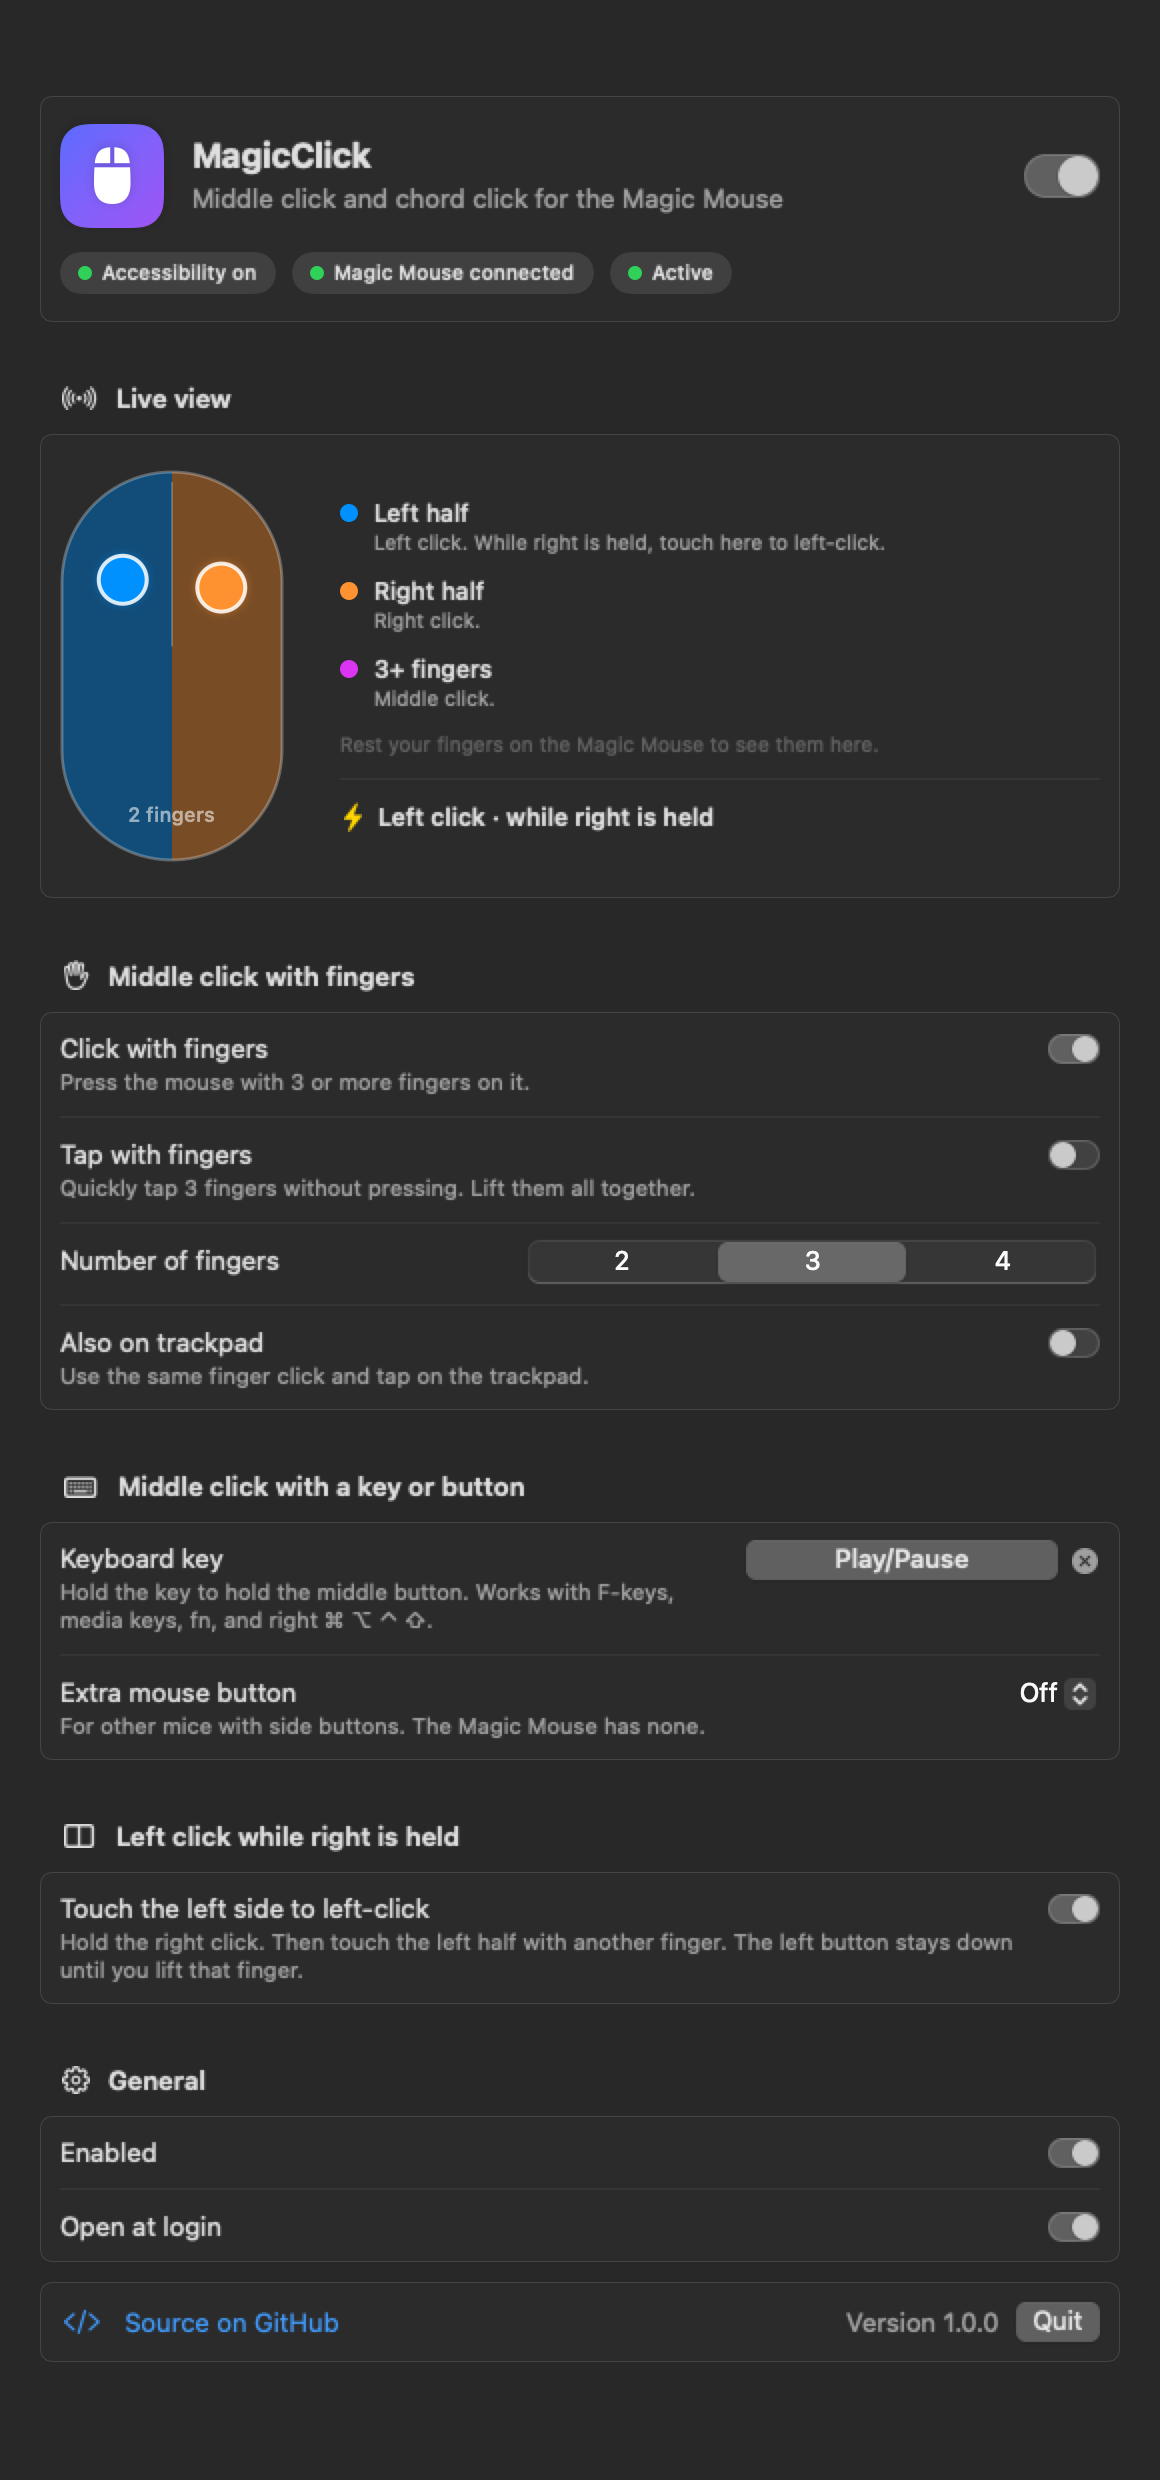
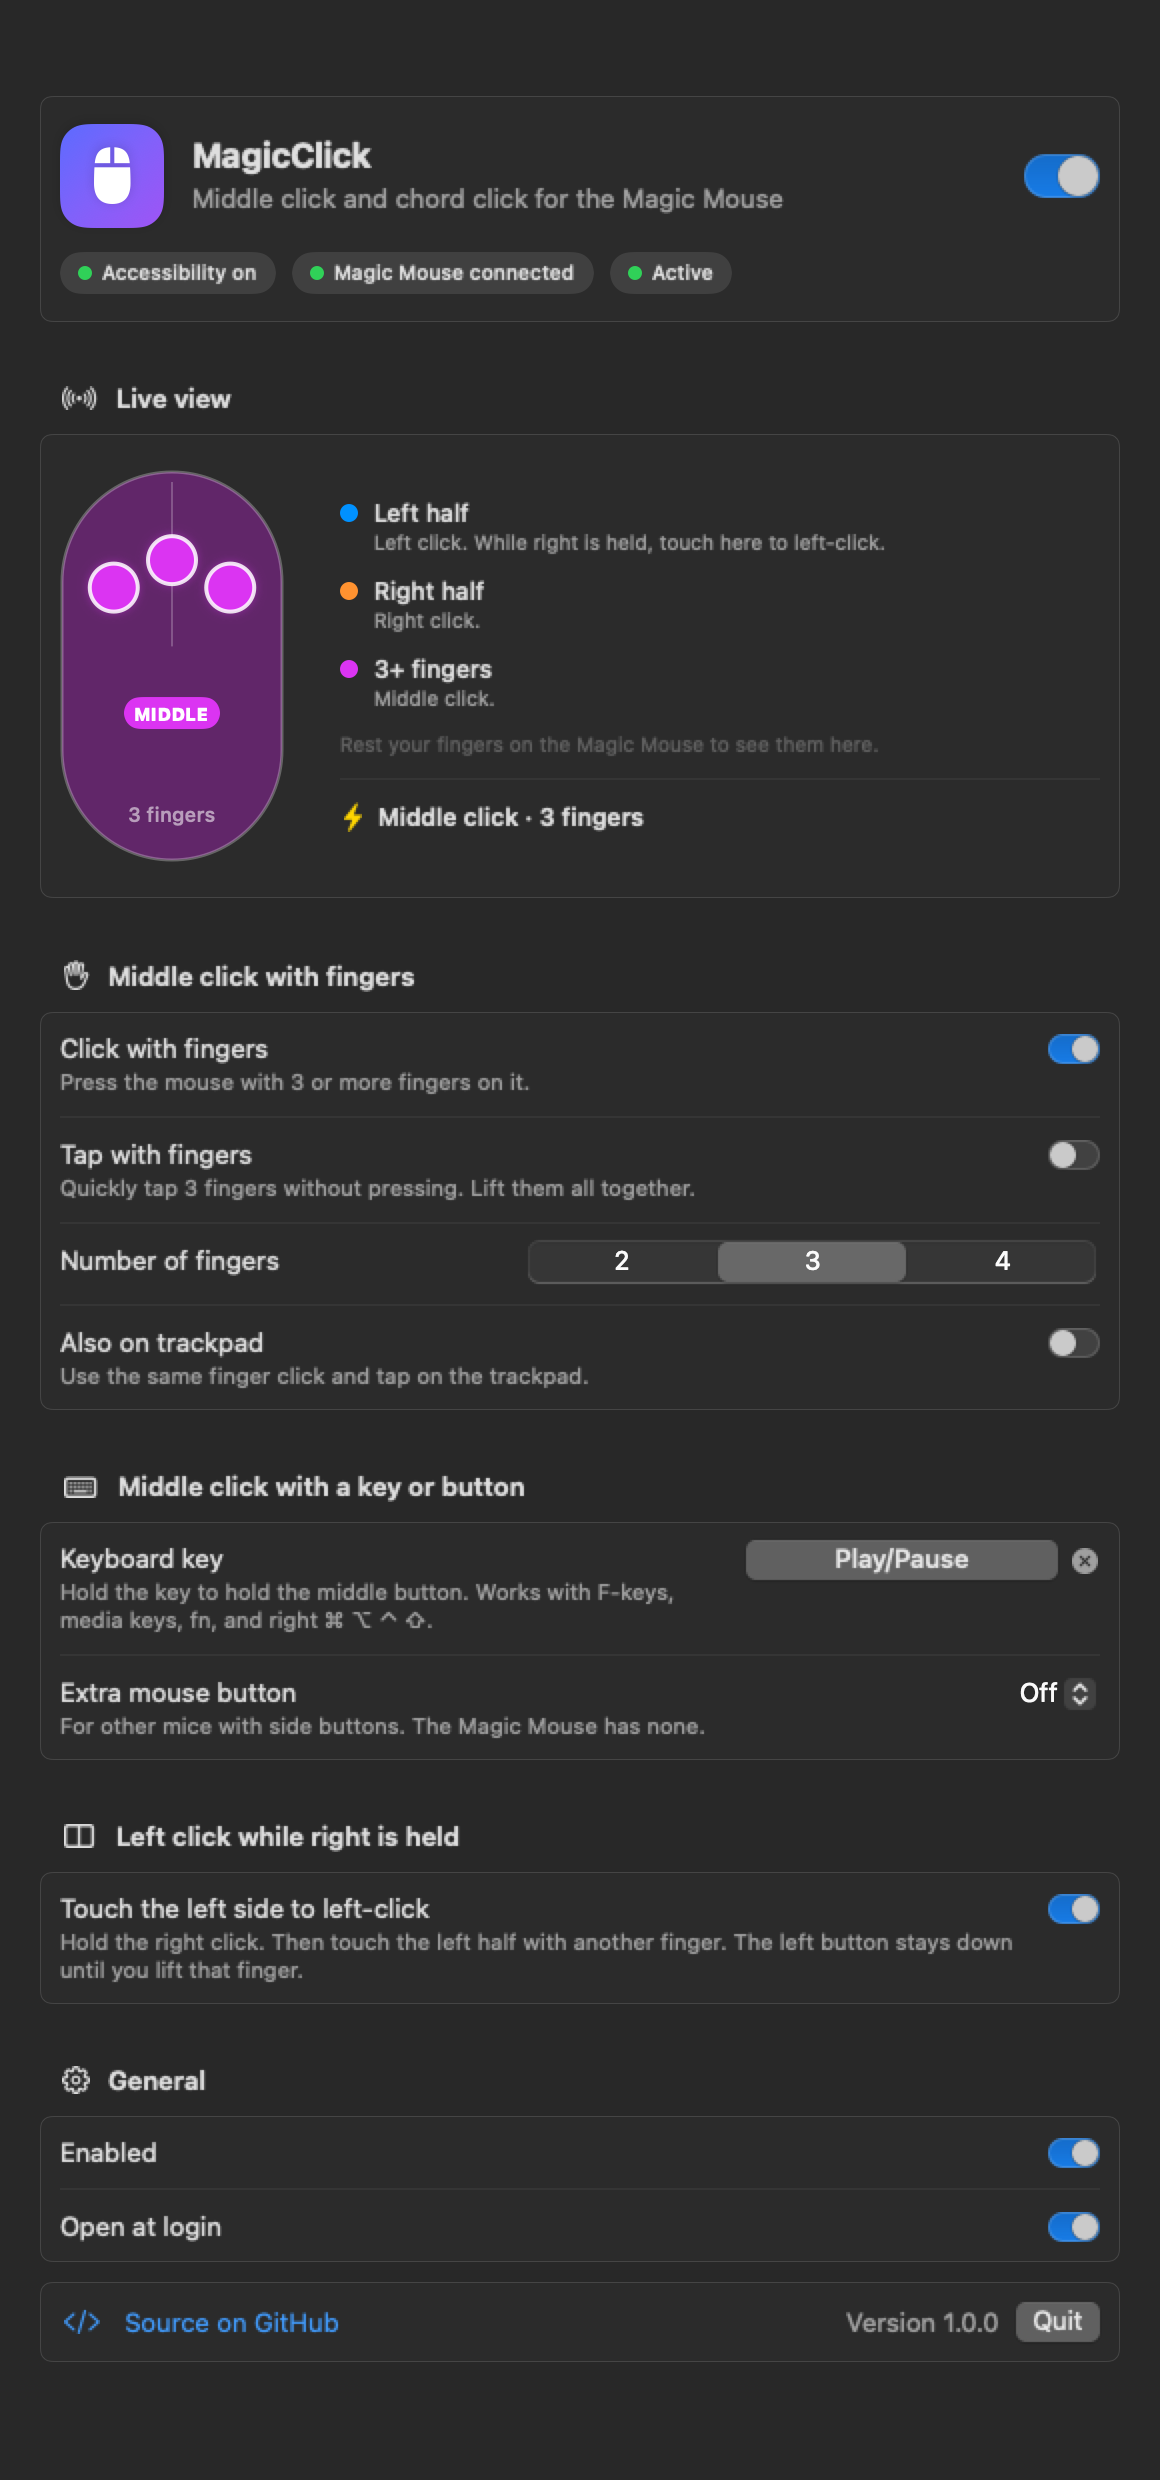
Show button badges in the live view; add demo GIF and chord screenshot modes

diff --git a/Sources/MagicClick/AppDelegate.swift b/Sources/MagicClick/AppDelegate.swift
@@ -10,7 +10,15 @@ final class AppDelegate: NSObject, NSApplicationDelegate, NSWindowDelegate, NSMe
     func applicationDidFinishLaunching(_ notification: Notification) {
         let arguments = CommandLine.arguments
         if let index = arguments.firstIndex(of: "--snapshot"), index + 1 < arguments.count {
-            snapshot(to: arguments[index + 1], demo: arguments.contains("--demo"))
+            var demo: String?
+            if let demoIndex = arguments.firstIndex(of: "--demo") {
+                demo = demoIndex + 1 < arguments.count ? arguments[demoIndex + 1] : "middle"
+            }
+            snapshot(to: arguments[index + 1], demo: demo)
+            return
+        }
+        if let index = arguments.firstIndex(of: "--demo-frames"), index + 1 < arguments.count {
+            renderDemoFrames(to: arguments[index + 1])
             return
         }
 
@@ -123,33 +131,98 @@ final class AppDelegate: NSObject, NSApplicationDelegate, NSWindowDelegate, NSMe
     }
 
     /// Renders the settings window to a PNG and quits. Used for the README screenshot.
-    /// `--demo` fills in example fingers and a granted permission.
-    private func snapshot(to path: String, demo: Bool) {
+    /// `--demo middle` shows a 3-finger middle click, `--demo chord` a left click while right is held.
+    /// Both also show a granted permission.
+    private func snapshot(to path: String, demo: String?) {
         model.persists = false
-        if demo {
+        if let demo {
             model.trusted = true
             model.tapRunning = true
             model.mouseConnected = true
             model.trigger = .media(code: 16)
-            model.live = LiveSnapshot(touches: [Touch(id: 1, x: 0.28, y: 0.72), Touch(id: 2, x: 0.72, y: 0.7)],
-                                      rightHeld: true, chordActive: true)
-            model.showAction("Left click · while right is held")
+            if demo == "chord" {
+                model.live = LiveSnapshot(touches: [Touch(id: 1, x: 0.27, y: 0.72), Touch(id: 2, x: 0.73, y: 0.7)],
+                                          rightHeld: true, chordActive: true)
+                model.showAction("Left click · while right is held")
+            } else {
+                model.live = LiveSnapshot(touches: [Touch(id: 1, x: 0.24, y: 0.7), Touch(id: 2, x: 0.5, y: 0.77),
+                                                    Touch(id: 3, x: 0.76, y: 0.7)])
+                model.showAction("Middle click · 3 fingers")
+            }
         }
         showSettings()
         window?.setContentSize(NSSize(width: 580, height: 1240))
         DispatchQueue.main.asyncAfter(deadline: .now() + 1.5) { [weak self] in
-            // Render at 2x so the image stays sharp on Retina screens and in the README.
-            if let view = self?.window?.contentView,
-               let rep = NSBitmapImageRep(bitmapDataPlanes: nil, pixelsWide: Int(view.bounds.width * 2),
-                                          pixelsHigh: Int(view.bounds.height * 2), bitsPerSample: 8, samplesPerPixel: 4,
-                                          hasAlpha: true, isPlanar: false, colorSpaceName: .deviceRGB,
-                                          bytesPerRow: 0, bitsPerPixel: 0) {
-                rep.size = view.bounds.size
-                view.cacheDisplay(in: view.bounds, to: rep)
-                try? rep.representation(using: .png, properties: [:])?.write(to: URL(fileURLWithPath: path))
-            }
+            self?.writeWindowImage(to: path)
             NSApp.terminate(nil)
         }
+    }
+
+    /// Plays a scripted demo in the live view and saves one PNG per step, plus `frames.txt`
+    /// with "file<TAB>seconds<TAB>caption" lines. `scripts/make-gif.swift` turns them into a GIF.
+    private func renderDemoFrames(to directory: String) {
+        typealias Step = (touches: [Touch], right: Bool, chord: Bool, action: String?, seconds: Double, caption: String)
+        let left = Touch(id: 1, x: 0.24, y: 0.7)
+        let top = Touch(id: 2, x: 0.5, y: 0.77)
+        let right = Touch(id: 3, x: 0.76, y: 0.7)
+        let chordLeft = Touch(id: 4, x: 0.27, y: 0.72)
+        let middleCaption = "Rest 3 fingers on the mouse and click"
+        let chordCaption = "Hold the right click, touch the left half"
+        let steps: [Step] = [
+            ([], false, false, nil, 1.2, "MagicClick · the clicks your Magic Mouse is missing"),
+            ([left], false, false, nil, 0.25, middleCaption),
+            ([left, top], false, false, nil, 0.25, middleCaption),
+            ([left, top, right], false, false, nil, 0.7, middleCaption),
+            ([left, top, right], false, false, "Middle click · 3 fingers", 1.8, "Middle click!"),
+            ([], false, false, nil, 0.6, chordCaption),
+            ([right], false, false, nil, 0.5, chordCaption),
+            ([right], true, false, nil, 0.9, chordCaption),
+            ([chordLeft, right], true, true, "Left click · while right is held", 2.0, "Left and right at the same time!"),
+            ([right], true, false, nil, 0.6, "Lift the finger to release the left button"),
+            ([], false, false, nil, 0.6, "Or pick any key as the middle button"),
+            ([], false, false, "Middle click · Play/Pause", 1.8, "Or pick any key as the middle button"),
+        ]
+
+        model.persists = false
+        model.trusted = true
+        model.tapRunning = true
+        model.mouseConnected = true
+        model.trigger = .media(code: 16)
+        showSettings()
+        window?.setContentSize(NSSize(width: 580, height: 620))
+        try? FileManager.default.createDirectory(atPath: directory, withIntermediateDirectories: true)
+
+        var manifest = ""
+        func render(_ index: Int) {
+            guard index < steps.count else {
+                try? manifest.write(toFile: (directory as NSString).appendingPathComponent("frames.txt"), atomically: true, encoding: .utf8)
+                NSApp.terminate(nil)
+                return
+            }
+            let step = steps[index]
+            model.live = LiveSnapshot(touches: step.touches, rightHeld: step.right, chordActive: step.chord)
+            if let action = step.action { model.showAction(action) }
+            // Wait for SwiftUI to update and the "last action" animation to settle.
+            DispatchQueue.main.asyncAfter(deadline: .now() + 0.6) { [weak self] in
+                let file = String(format: "frame-%02d.png", index)
+                self?.writeWindowImage(to: (directory as NSString).appendingPathComponent(file))
+                manifest += "\(file)\t\(step.seconds)\t\(step.caption)\n"
+                render(index + 1)
+            }
+        }
+        DispatchQueue.main.asyncAfter(deadline: .now() + 1.5) { render(0) }
+    }
+
+    /// Writes the settings window content as a 2x PNG.
+    private func writeWindowImage(to path: String) {
+        guard let view = window?.contentView,
+              let rep = NSBitmapImageRep(bitmapDataPlanes: nil, pixelsWide: Int(view.bounds.width * 2),
+                                         pixelsHigh: Int(view.bounds.height * 2), bitsPerSample: 8, samplesPerPixel: 4,
+                                         hasAlpha: true, isPlanar: false, colorSpaceName: .deviceRGB,
+                                         bytesPerRow: 0, bitsPerPixel: 0) else { return }
+        rep.size = view.bounds.size
+        view.cacheDisplay(in: view.bounds, to: rep)
+        try? rep.representation(using: .png, properties: [:])?.write(to: URL(fileURLWithPath: path))
     }
 
     func windowWillClose(_ notification: Notification) {

diff --git a/scripts/make-gif.swift b/scripts/make-gif.swift
@@ -1,0 +1,74 @@
+// Turns the frames from `MagicClick --demo-frames <dir>` into an animated GIF.
+// Run: swift scripts/make-gif.swift <dir> <out.gif>
+import AppKit
+import ImageIO
+import UniformTypeIdentifiers
+
+let arguments = CommandLine.arguments
+guard arguments.count == 3 else {
+    print("usage: swift scripts/make-gif.swift <frames dir> <out.gif>")
+    exit(1)
+}
+let directory = URL(fileURLWithPath: arguments[1])
+let output = URL(fileURLWithPath: arguments[2])
+
+// The "Live view" card inside a 2x window frame, and the size of the GIF.
+let cardRect = CGRect(x: 20, y: 420, width: 1120, height: 500)
+let width = 800
+let scale = CGFloat(width) / cardRect.width
+let captionHeight: CGFloat = 96
+let footerHeight: CGFloat = 52
+let height = Int(captionHeight + cardRect.height * scale + footerHeight)
+
+let lines = try String(contentsOf: directory.appendingPathComponent("frames.txt"), encoding: .utf8)
+    .split(separator: "\n").map { $0.split(separator: "\t", omittingEmptySubsequences: false).map(String.init) }
+
+let destination = CGImageDestinationCreateWithURL(output as CFURL, UTType.gif.identifier as CFString, lines.count, nil)!
+CGImageDestinationSetProperties(destination, [kCGImagePropertyGIFDictionary: [kCGImagePropertyGIFLoopCount: 0]] as CFDictionary)
+
+func draw(_ text: String, size: CGFloat, weight: NSFont.Weight, color: NSColor, centerY: CGFloat) {
+    let style = NSMutableParagraphStyle()
+    style.alignment = .center
+    let string = NSAttributedString(string: text, attributes: [
+        .font: NSFont.systemFont(ofSize: size, weight: weight), .foregroundColor: color, .paragraphStyle: style,
+    ])
+    let textHeight = string.size().height
+    string.draw(in: NSRect(x: 0, y: centerY - textHeight / 2, width: CGFloat(width), height: textHeight + 4))
+}
+
+for line in lines {
+    let frame = NSBitmapImageRep(data: try Data(contentsOf: directory.appendingPathComponent(line[0])))!.cgImage!
+    let seconds = Double(line[1]) ?? 1
+    let caption = line[2]
+
+    let rep = NSBitmapImageRep(bitmapDataPlanes: nil, pixelsWide: width, pixelsHigh: height, bitsPerSample: 8,
+                               samplesPerPixel: 4, hasAlpha: true, isPlanar: false, colorSpaceName: .deviceRGB,
+                               bytesPerRow: 0, bitsPerPixel: 0)!
+    NSGraphicsContext.saveGraphicsState()
+    NSGraphicsContext.current = NSGraphicsContext(bitmapImageRep: rep)
+    let context = NSGraphicsContext.current!.cgContext
+    context.interpolationQuality = .high
+
+    // Window background: one pixel of the frame, stretched.
+    let background = frame.cropping(to: CGRect(x: 4, y: 4, width: 1, height: 1))!
+    context.draw(background, in: CGRect(x: 0, y: 0, width: width, height: height))
+
+    let card = frame.cropping(to: cardRect)!
+    context.draw(card, in: CGRect(x: 0, y: footerHeight, width: CGFloat(width), height: cardRect.height * scale))
+
+    let accent = caption.hasSuffix("!") ? NSColor(red: 1, green: 0.84, blue: 0.3, alpha: 1) : NSColor.white
+    draw(caption, size: 30, weight: .bold, color: accent, centerY: CGFloat(height) - captionHeight / 2 - 4)
+    draw("MagicClick · free & open source · github.com/codeFi/MagicClick", size: 17, weight: .medium,
+         color: NSColor.white.withAlphaComponent(0.55), centerY: footerHeight / 2)
+    NSGraphicsContext.restoreGraphicsState()
+
+    CGImageDestinationAddImage(destination, rep.cgImage!, [kCGImagePropertyGIFDictionary: [
+        kCGImagePropertyGIFDelayTime: seconds, kCGImagePropertyGIFUnclampedDelayTime: seconds,
+    ]] as CFDictionary)
+}
+
+guard CGImageDestinationFinalize(destination) else {
+    print("Could not write \(output.path)")
+    exit(1)
+}
+print("Wrote \(output.path) (\(width)x\(height), \(lines.count) frames)")

diff --git a/Sources/MagicClick/SettingsView.swift b/Sources/MagicClick/SettingsView.swift
@@ -266,10 +266,14 @@ private struct MouseDiagram: View {
             var halves = context
             halves.clip(to: body)
             let half = size.width / 2
-            halves.fill(Path(CGRect(x: 0, y: 0, width: half, height: size.height)),
-                        with: .color(.blue.opacity(live.chordActive ? 0.4 : 0.1)))
-            halves.fill(Path(CGRect(x: half, y: 0, width: half, height: size.height)),
-                        with: .color(.orange.opacity(live.rightHeld ? 0.4 : 0.08)))
+            if isMiddle {
+                halves.fill(body, with: .color(.purple.opacity(0.35)))
+            } else {
+                halves.fill(Path(CGRect(x: 0, y: 0, width: half, height: size.height)),
+                            with: .color(.blue.opacity(live.chordActive ? 0.45 : 0.1)))
+                halves.fill(Path(CGRect(x: half, y: 0, width: half, height: size.height)),
+                            with: .color(.orange.opacity(live.rightHeld ? 0.45 : 0.08)))
+            }
 
             var divider = Path()
             divider.move(to: CGPoint(x: half, y: 6))
@@ -287,15 +291,41 @@ private struct MouseDiagram: View {
                 context.stroke(dot, with: .color(.white.opacity(0.85)), lineWidth: 2)
             }
 
+            // Say which buttons are down right now.
+            let badgeY = size.height * 0.62
+            if isMiddle {
+                drawBadge("MIDDLE", color: .purple, at: CGPoint(x: half, y: badgeY), in: context)
+            } else {
+                if live.chordActive {
+                    drawBadge("LEFT", color: .blue, at: CGPoint(x: half / 2 + 2, y: badgeY), in: context)
+                }
+                if live.rightHeld {
+                    drawBadge("RIGHT", color: .orange, at: CGPoint(x: half * 1.5 - 2, y: badgeY), in: context)
+                }
+            }
+
             let label = live.touches.isEmpty ? "No fingers" : "\(live.touches.count) finger\(live.touches.count == 1 ? "" : "s")"
             context.draw(Text(label).font(.caption2.weight(.medium)).foregroundStyle(.secondary),
                          at: CGPoint(x: half, y: size.height * 0.88))
         }
     }
 
+    private var isMiddle: Bool {
+        !live.rightHeld && live.touches.count >= middleCount
+    }
+
     private func color(for touch: Touch) -> Color {
-        if live.touches.count >= middleCount { return .purple }
+        if isMiddle { return .purple }
         return touch.x < 0.5 ? .blue : .orange
+    }
+
+    private func drawBadge(_ text: String, color: Color, at center: CGPoint, in context: GraphicsContext) {
+        let label = context.resolve(Text(text).font(.system(size: 9, weight: .heavy)).foregroundStyle(.white))
+        let textSize = label.measure(in: CGSize(width: 200, height: 50))
+        let rect = CGRect(x: center.x - textSize.width / 2 - 5, y: center.y - textSize.height / 2 - 2.5,
+                          width: textSize.width + 10, height: textSize.height + 5)
+        context.fill(Path(roundedRect: rect, cornerRadius: rect.height / 2), with: .color(color))
+        context.draw(label, at: center)
     }
 }
 

diff --git a/README.md b/README.md
@@ -25,6 +25,10 @@ The Magic Mouse has one physical button. macOS looks at where your finger is and
 MagicClick fixes both. It reads your fingers on the touch surface of the mouse and turns the right gestures into the right clicks.
 
 <p align="center">
+  <img src="docs/demo.gif" width="640" alt="MagicClick demo: a 3-finger middle click, then a left click while the right button is held">
+</p>
+
+<p align="center">
   <img src="docs/screenshot.png" width="580" alt="MagicClick settings window">
 </p>
 
@@ -150,10 +154,13 @@ swift build -c release          # release build
 ./scripts/build.sh              # release .app in build/, no install
 ```
 
-To make the README screenshot:
+To make the README screenshot and demo GIF (run the binary inside the built app so the version shows):
 
 ```bash
-.build/release/MagicClick --snapshot docs/screenshot.png --demo
+./scripts/build.sh
+build/MagicClick.app/Contents/MacOS/MagicClick --snapshot docs/screenshot.png --demo middle   # or: --demo chord
+build/MagicClick.app/Contents/MacOS/MagicClick --demo-frames build/frames
+swift scripts/make-gif.swift build/frames docs/demo.gif
 ```
 
 ## Troubleshooting
